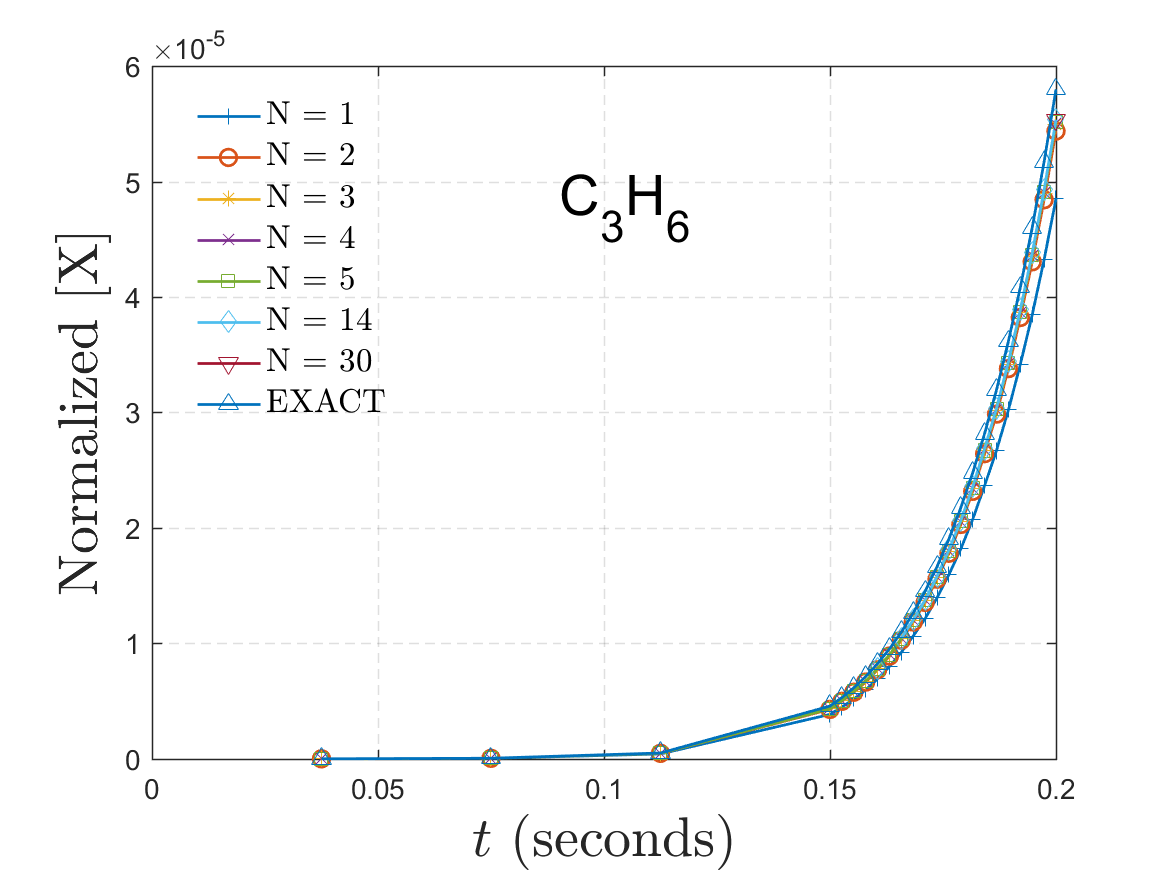
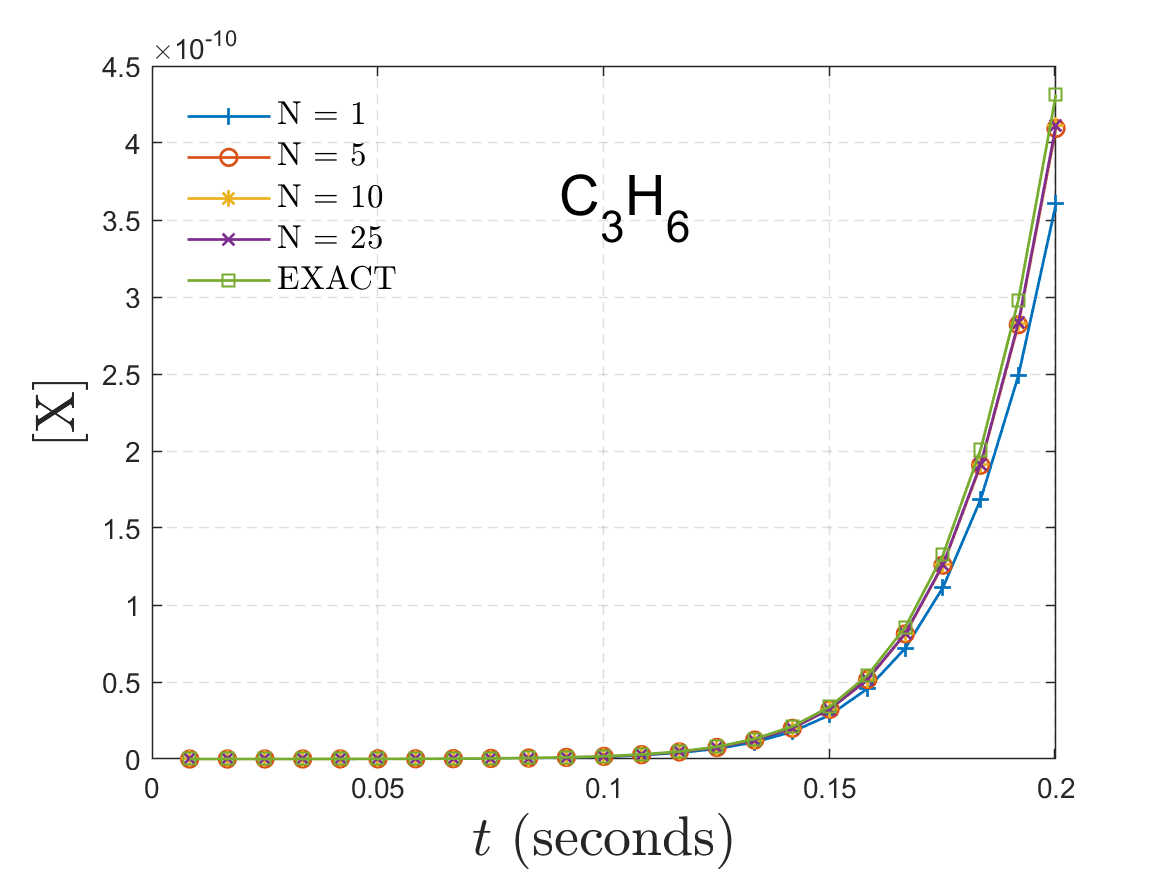
minor

diff --git a/theory/misc/trajectory_convergence/DOE_talk_650/C3H6_merged_pathway/species_conc_path_prob_convergence_v2.m b/theory/misc/trajectory_convergence/DOE_talk_650/C3H6_merged_pathway/species_conc_path_prob_convergence_v2.m
@@ -5,6 +5,7 @@ pic_dir = fullfile(fileparts(mfilename('fullpath')));
 % marker
 % markers = {'+' , 'o' , '*' , 'x' , 'square' , 'diamond' , 'v' , '^' , '>' , '<' , 'pentagram' , 'hexagram' , '.', 'none'};
 markers = {'+' , 'o' , '*' , 'x' , 'square' , 'diamond' , 'v' , '^' , '>' , '<' , 'pentagram' , 'hexagram' , '.'};
+% markers = {'None'};
 prefix = 'species_';
 spe_idx = 59;
 spe_name = 'C3H6';
@@ -14,7 +15,9 @@ tau = 0.777660157519;
 end_t = '0.25718313951098054';
 % stage 1B end time
 % end_t = '0.720108899222239';
-n_path = 50;
+n_path = 100;
+pre_factor = 7.44277901848944108e-06 * 1.0;
+% pre_factor = 1.0;
 
 %% import time
 f_n_scc_time = fullfile(file_dir, [prefix, 'scc_time.csv']);
@@ -27,7 +30,7 @@ scc_time_vec = dataArray{:, 1};
 clearvars f_n_scc_time delimiter formatSpec fileID dataArray ans;
 
 %% import spe conc
-f_n_conc = fullfile(file_dir, [prefix, 'spe_conc_converted_to_pp.csv']);
+f_n_conc = fullfile(file_dir, [prefix, 'spe_conc.csv']);
 delimiter = ',';
 formatStr = '';
 for i=1:110
@@ -38,7 +41,7 @@ formatSpec = char(formatStr);
 fileID = fopen(f_n_conc,'r');
 dataArray = textscan(fileID, formatSpec, 'Delimiter', delimiter, 'EmptyValue', NaN,  'ReturnOnError', false);
 fclose(fileID);
-spe_conc_in_pp = [dataArray{1:end-1}];
+spe_conc = [dataArray{1:end-1}];
 clearvars f_n_conc delimiter formatSpec fileID dataArray ans;
 
 %% import pathway prob
@@ -57,9 +60,9 @@ scc_pp = [dataArray{1:end-1}];
 clearvars f_n_pp delimiter formatSpec fileID dataArray ans;
 
 %% global properties
-idx_vec = [1 2 3 4 5 14 30];
+idx_vec = [1 5 10 25];
 N = length(idx_vec);
-y_label_str = 'Normalized [X]';
+y_label_str = '[X]';
 
 %% plot
 fig = figure();
@@ -78,10 +81,10 @@ data_x = scc_time_vec * tau;
 color_idx = 1;
 for idx =1:N+1
     if idx == N+1
-        data_y = spe_conc_in_pp(:, spe_idx + 1);
+        data_y = spe_conc(:, spe_idx + 1);
     else
         A = scc_pp(:, 1:idx_vec(idx));
-        data_y = sum(A, 2);
+        data_y = pre_factor * sum(A, 2);
     end
 
     plot(data_x, data_y, ...
